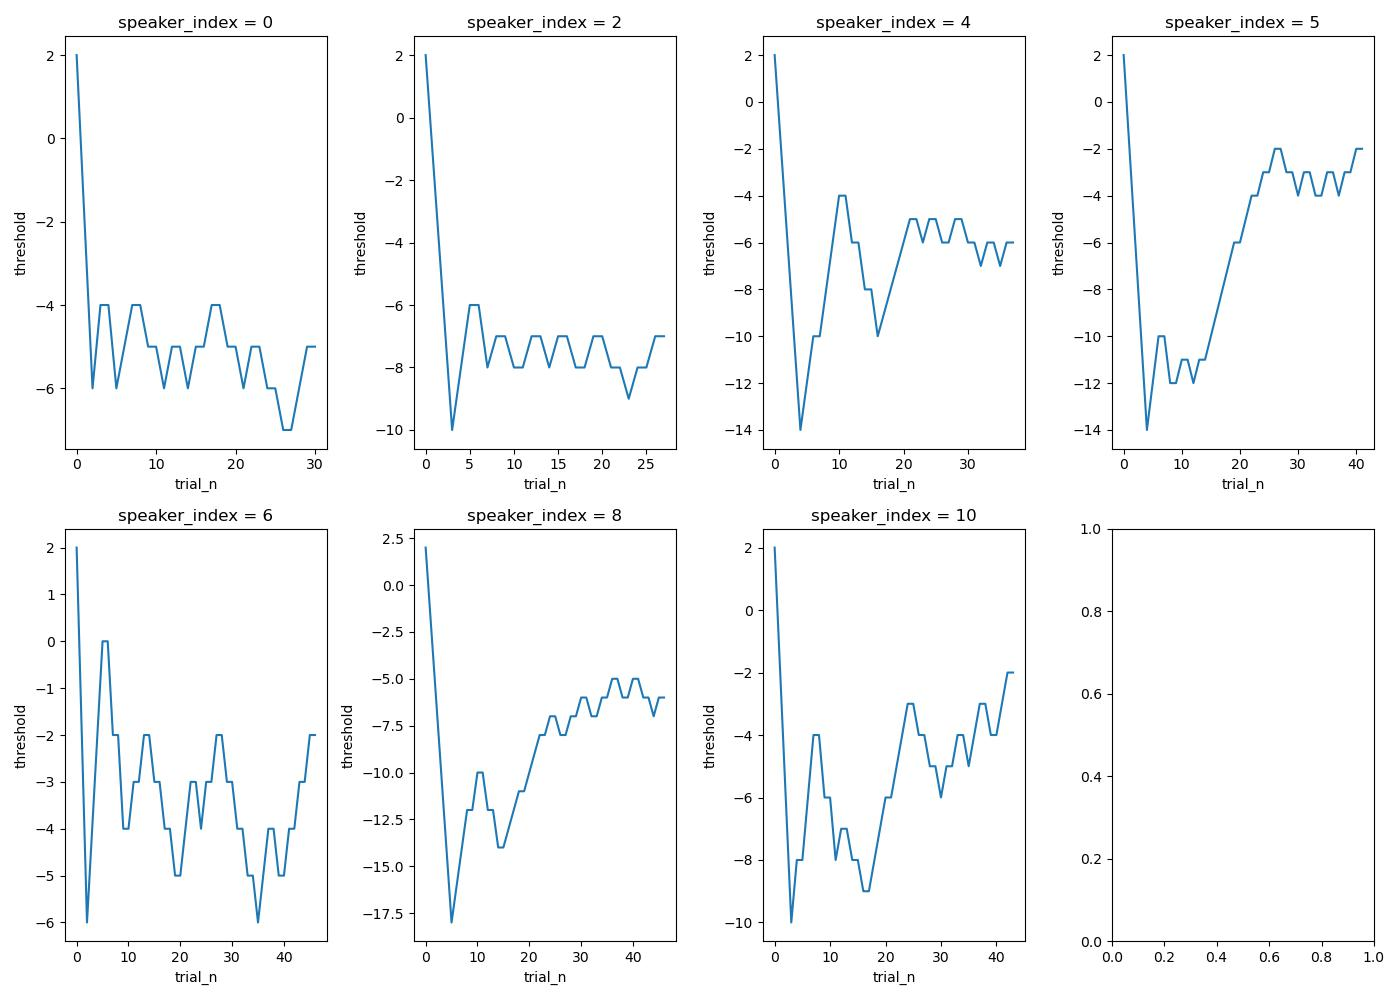
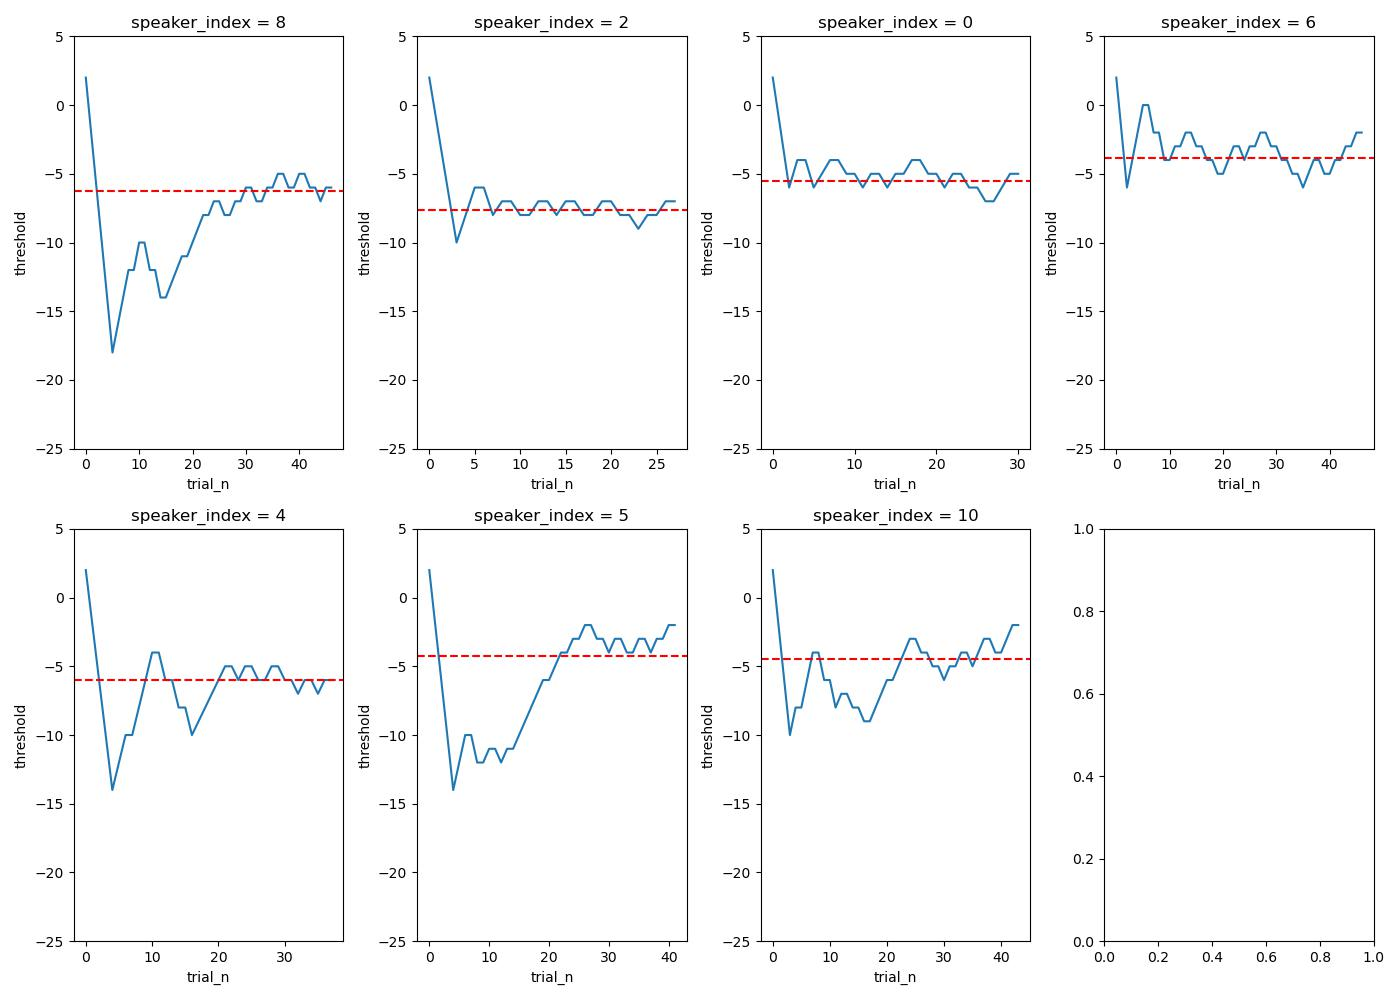
plotting functions

diff --git a/util.py b/util.py
@@ -126,7 +126,7 @@ def record_stimuli_and_create_csv(stim_type="countries_forward"):
                 sound = apply_mgb_equalization(signal=sound, speaker=speaker, mgb_loudness=30)
                 rec_sound = freefield.play_and_record(speaker=speaker, sound=sound, compensate_delay=True, equalize=False)
                 sound_name = os.path.splitext(filenames_list[i])[0]
-                filepath = DIR / "data" / "recordings" / "countries_forward" / f"sound-{sound_name}_distance-{speaker.distance}.wav"
+                filepath = DIR / "data" / "recordings" / f"{stim_type}" / f"sound-{sound_name}_distance-{speaker.distance}.wav"
                 filepath = pathlib.Path(filepath)
                 rec_sound.write(filename=filepath, normalise=False)
                 time.sleep(2.7)
@@ -522,16 +522,21 @@ def get_speaker_index(filename):
 def plot_subject_staircases(sub_id, draw=True):
     directory_path = DIR / "data" / "results"
     file_list = list()
+    df_path = DIR / "data" / "results" / f"results_spacial_unmasking_{sub_id}.csv"
+    df = pd.read_csv(df_path)
+    index_order = df["distance_masker"].tolist()
+    index_order = [int(distance - 2.0) for distance in index_order]
     fig, axes = plt.subplots(2, 4, figsize=(14, 10))
     for file in directory_path.iterdir():
-        if file.is_file() and file.suffix == '.json' and str(sub_id) in str(file):
-            try:
-                file_list.append(str(file))
-            except Exception as e:
-                logging.error(f"Error reading file {file}: {e}")
-                print(f"Error reading file {file}: {e}")
+        for index in index_order:
+            if file.is_file() and file.suffix == '.json' and str(sub_id) in str(file) and f"index-{index}" in str(file):
+                try:
+                    file_list.append(str(file))
+                except Exception as e:
+                    logging.error(f"Error reading file {file}: {e}")
+                    print(f"Error reading file {file}: {e}")
 
-    file_list = sorted(file_list, key=get_speaker_index)
+    """file_list = sorted(file_list, key=get_speaker_index)"""
 
     for i in range(len(file_list)):
         with open(file_list[i], 'r') as file:
@@ -539,6 +544,8 @@ def plot_subject_staircases(sub_id, draw=True):
 
         # Extract the "intensities" array
         intensities = data.get("intensities", [])
+        reversal_intensities = data.get("reversal_intensities", [])
+        threshold = sum(reversal_intensities[-8:]) / 8
         print(intensities)
         print(len(intensities))
         print(list(range(len(intensities))))
@@ -548,14 +555,18 @@ def plot_subject_staircases(sub_id, draw=True):
 
         if i < 4:
             sns.lineplot(x=list(range(len(intensities))), y=intensities, ax=axes[0, i])
+            axes[0, i].axhline(y=threshold, color='red', linestyle='--', label='threshold')
             axes[0, i].set_title(f'speaker_index = {speaker_index}')
             axes[0, i].set_xlabel('trial_n')
             axes[0, i].set_ylabel('threshold')
+            axes[0, i].set_ylim(-25, 5)
         else:
             sns.lineplot(x=list(range(len(intensities))), y=intensities, ax=axes[1, (i - 4)])
+            axes[1, (i - 4)].axhline(y=threshold, color='red', linestyle='--', label='threshold')
             axes[1, (i - 4)].set_title(f'speaker_index = {speaker_index}')
             axes[1, (i - 4)].set_xlabel('trial_n')
             axes[1, (i - 4)].set_ylabel('threshold')
+            axes[1, (i - 4)].set_ylim(-25, 5)
 
     # Adjust the layout
     plt.tight_layout()
@@ -566,9 +577,186 @@ def plot_subject_staircases(sub_id, draw=True):
     if draw:
         plt.show()
 
+def plot_learning_effect_per_trial(task="numerosity_judgement"):
+    directory_path = DIR / "data" / "results"
+    fig, axes = plt.subplots(2, 2, figsize=(10, 10))
+    axes = axes.flatten()
+    df = pd.DataFrame()
+
+    for file in directory_path.iterdir():
+        if task == "numerosity_judgement":
+            if file.is_file() and "results_numerosity_judgement" in str(file) and file.suffix == ".csv":
+                this_df = pd.read_csv(file)
+                df = pd.concat([df, this_df], ignore_index=True)
+        if task == "localisation_accuracy":
+            if file.is_file() and "results_localisation_accuracy" in str(file) and file.suffix == ".csv":
+                this_df = pd.read_csv(file)
+                df = pd.concat([df, this_df], ignore_index=True)
+
+    if task == "localisation_accuracy":
+        df["abs_error"] = abs(df["stim_dist"] - df["resp_dist"])
+    elif task == "numerosity_judgement":
+        df["abs_error"] = abs(df["stim_number"] - df["resp_number"])
+
+    df_blocks = [df[df["block"] == i] for i in range(1,5)]
+
+    for i, ax in enumerate(axes):
+        if i < len(df_blocks):  # Ensure we have enough blocks to plot
+            grouped_by_trial_index = df_blocks[i].groupby("trial_index")
+            """if task == "numerosity_judgement":
+                hit_rates = grouped_by_trial_index["is_correct"].mean().reset_index()
+                sns.scatterplot(x='trial_index', y='is_correct', data=hit_rates, ax=ax)
+                sns.regplot(x='trial_index', y='is_correct', data=hit_rates, ax=ax, scatter=False, ci=None, color='r')
+                ax.set_title(f'Block {i + 1}')
+                ax.set_xlabel('Trial Index')
+                ax.set_ylabel('Mean Hit Rate')
+                ax.set_ylim(0, 1)  # Assuming hit rate is between 0 and 1"""
+            average_abs_error = grouped_by_trial_index["abs_error"].mean().reset_index()
+            sns.scatterplot(x='trial_index', y='abs_error', data=average_abs_error, ax=ax)
+            sns.regplot(x='trial_index', y='abs_error', data=average_abs_error, ax=ax, scatter=False, ci=None, color='r')
+            ax.set_title(f'Block {i + 1}')
+            ax.set_xlabel('Trial Index')
+            ax.set_ylabel('Mean Absolute Error')
+            ax.set_ylim(0, 5)
+        else:
+            fig.delaxes(ax)  # Remove any unused axes
+
+    plt.tight_layout()
+    plt.savefig(DIR / "data" / "results" / "figs" / f"fig_learning_effect_by_trial_{task}.jpeg")
+    plt.show()
+
+def plot_numerosity_judgement_distance_dependencies(dependency, num_bins=30):
+    directory_path = DIR / "data" / "results"
+    df = pd.DataFrame()
+    for file in directory_path.iterdir():
+        if file.is_file() and "results_numerosity_judgement" in str(file) and file.suffix == ".csv":
+            this_df = pd.read_csv(file)
+            df = pd.concat([df, this_df], ignore_index=True)
+    df["abs_error"] = abs(df["stim_number"] - df["resp_number"])
+    df['binned_dependency'] = pd.cut(df[dependency], bins=num_bins)
+    grouped_df = df.groupby(['binned_dependency', 'stim_number']).agg({
+        'resp_number': 'mean',
+        dependency: 'mean'
+    }).reset_index()
+
+    """sns.scatterplot(grouped_df, x=dependency, y="abs_error")
+    sns.regplot(x=dependency, y="abs_error", data=grouped_df, scatter=False, ci=None, color='r')"""
+    sns.scatterplot(data=grouped_df, x=dependency, y='resp_number', hue='stim_number', palette='viridis')
+
+    for stim_num in grouped_df['stim_number'].unique():
+        sns.regplot(
+            x=grouped_df[grouped_df['stim_number'] == stim_num][dependency],
+            y=grouped_df[grouped_df['stim_number'] == stim_num]['resp_number'],
+            scatter=False, ci=None, color='r', label=f'Trend (stim {stim_num})'
+        )
+    plt.tight_layout()
+    plt.savefig(DIR / "data" / "results" / "figs" / f"fig_numerosity_judgement_{dependency}_effect.jpeg")
+    plt.show()
+    return
+
+def get_experiment_order(sub_id):
+    directory_path = DIR / "data" / "results"
+    df_spatial_unmasking = pd.read_csv(pathlib.Path(directory_path / f"results_per_step_spacial_unmasking_{sub_id}.csv"))
+    df_numerosity_judgement = pd.read_csv(pathlib.Path(directory_path / f"results_numerosity_judgement_{sub_id}.csv"))
+    df_localisation_accuracy = pd.read_csv(pathlib.Path(directory_path / f"results_localisation_accuracy_{sub_id}.csv"))
+
+    result_df_dict = {"spatial_unmasking": df_spatial_unmasking, "numerosity_judgement": df_numerosity_judgement, "localisation_accuracy": df_localisation_accuracy}
+    for key in result_df_dict.keys():
+        df = result_df_dict.get(key)
+        timestamp = df.iloc[0]["timestamp"]
+        result_df_dict.update({key: timestamp})
+
+    sorted_experiment_list = dict(sorted(result_df_dict.items(), key=lambda item: item[1])).keys()
+    return sorted_experiment_list
+
+def get_stimulus_order(sub_id, task):
+    directory_path = DIR / "data" / "results"
+    if task == "localisation_accuracy":
+        df = pd.read_csv(pathlib.Path(directory_path / f"results_localisation_accuracy_{sub_id}.csv"))
+    elif task == "numerosity_judgement":
+        df = pd.read_csv(pathlib.Path(directory_path / f"results_numerosity_judgement{sub_id}.csv"))
+
+    stim_types = df["stim_type"].unique().tolist()
+    stim_types_dict = {}
+    for stim_type in stim_types:
+        filtered_df =df[df["stim_type"] == stim_type]
+        stim_types_dict.update({stim_type: min(filtered_df["timestamp"].tolist())})
+
+    sorted_stim_type_list = dict(sorted(stim_types_dict.items(), key=lambda item: item[1])).keys()
+    return sorted_stim_type_list
+
+def plot_task_order_effects(task):
+    directory_path = DIR / "data" / "results"
+    df_list = list()
+    for file in directory_path.iterdir():
+        if task == "numerosity_judgement":
+            if file.is_file() and "results_numerosity_judgement" in str(file) and file.suffix == ".csv":
+                this_df = pd.read_csv(file)
+                df_list.append(this_df)
+
+        elif task == "localisation_accuracy":
+            if file.is_file() and "results_localisation_accuracy" in str(file) and file.suffix == ".csv":
+                this_df = pd.read_csv(file)
+                df_list.append(this_df)
+
+    """df_first_pos = pd.DataFrame()
+    df_second_pos = pd.DataFrame()
+    df_third_pos = pd.DataFrame()"""
+    complete_df = pd.DataFrame()
+
+    for df in df_list:
+        sub_id = df["subject_id"].unique().tolist()[0]
+        print(sub_id)
+        sorted_experiment_list = list(get_experiment_order(sub_id))
+        if task == sorted_experiment_list[0]:
+            df["experiment_order"] = 0
+        elif task == sorted_experiment_list[1]:
+            df["experiment_order"] = 2
+        elif task == sorted_experiment_list[2]:
+            df["experiment_order"] = 3
+        complete_df = pd.concat([complete_df, df])
+
+    if task == "localisation_accuracy":
+        complete_df["error"] = complete_df["stim_dist"] - complete_df["resp_dist"]
+    elif task == "numerosity_judgement":
+        complete_df["error"] = complete_df["stim_number"] - complete_df["resp_number"]
+
+    sns.boxplot(complete_df, x="experiment_order", y="error")
+
+    plt.tight_layout()
+    plt.savefig(DIR / "data" / "results" / "figs" / f"fig_{task}_task_order_effect.jpeg")
+    plt.show()
+
+    return
+
+def plot_stimulus_effects(task):
+    directory_path = DIR / "data" / "results"
+    df = pd.DataFrame()
+    for file in directory_path.iterdir():
+        if file.is_file() and f"results_{task}" in str(file) and file.suffix == ".csv":
+            this_df = pd.read_csv(file)
+            df = pd.concat([df, this_df], ignore_index=True)
+
+    if task == "localisation_accuracy":
+        df["error"] = df["stim_dist"] - df["resp_dist"]
+        sns.boxplot(df, x="stim_dist", y="error", hue="stim_type")
+    elif task == "numerosity_judgement":
+        df["error"] = df["stim_number"] - df["resp_number"]
+        sns.boxplot(df, x="stim_number", y="error", hue="stim_type")
+    """sns.boxplot(df, x="stim_type", y="error")"""
+
+    plt.tight_layout()
+    plt.savefig(DIR / "data" / "results" / "figs" / f"fig_{task}_stim_type_effect.jpeg")
+    plt.show()
+    return
+
+def get_spatial_unmasking_performance(sub_id):
+    return
+
+def get_localisation_accuracy_performance(sub_id):
+    return
+
 if __name__ == "__main__":
-    for i in range(100, 122):
-        sub_id = f"sub_{i}"
-        plot_subject_staircases(sub_id)
+    plot_task_order_effects(task="localisation_accuracy")
 
 
